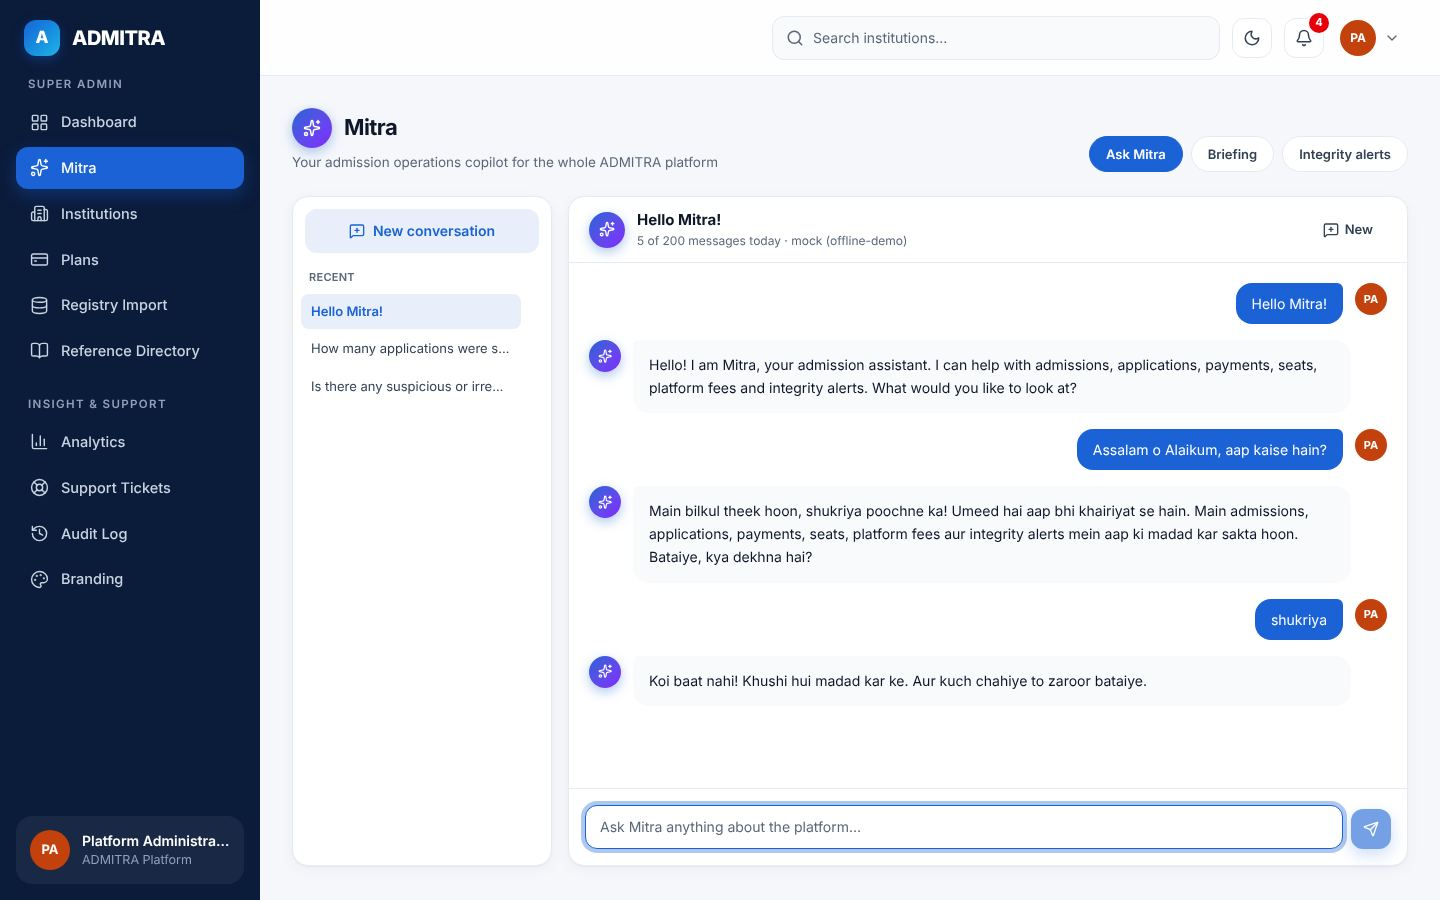
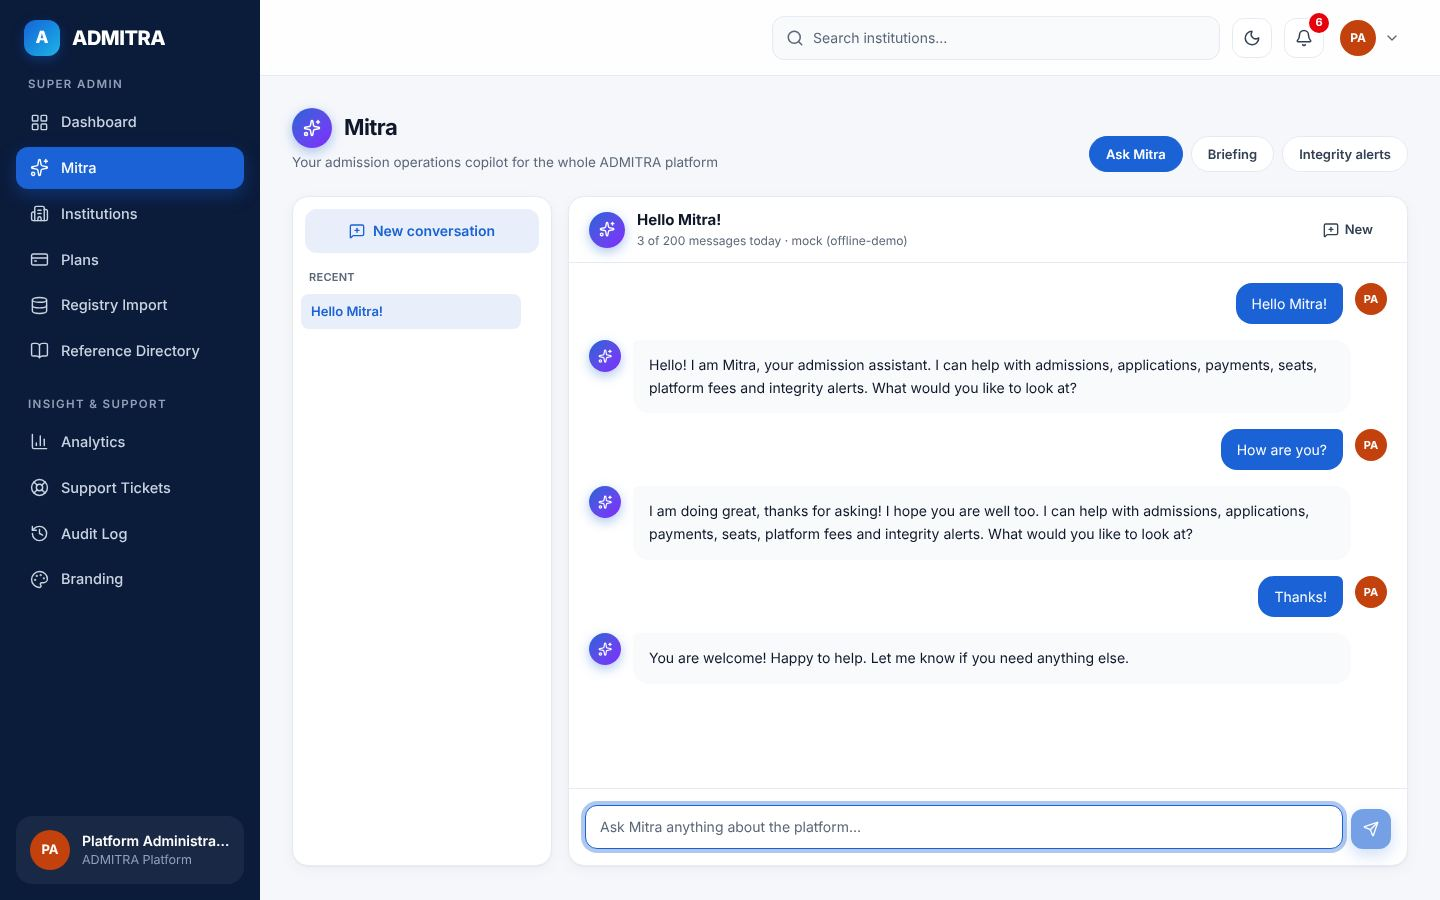
Show English conversations in the Mitra screenshots and use neutral test names

diff --git a/ADMITRA/backend/tests/agent.test.ts b/ADMITRA/backend/tests/agent.test.ts
@@ -382,7 +382,7 @@ describe('offline provider for development (AGENT-1)', () => {
     expect(r.body.data.message.content).toContain('Here is what I found');
   });
 
-  it('answers greetings and small talk warmly without tools, in English or Roman Urdu', async () => {
+  it('answers greetings and small talk warmly without tools', async () => {
     const { MockProvider } = await import('../src/modules/agent/providers/mock.js');
     setProvider(new MockProvider());
     const root = await superAdminToken();
@@ -401,16 +401,16 @@ describe('offline provider for development (AGENT-1)', () => {
     expect(salam.body.data.message.content).toContain('Main bilkul theek hoon');
     const thanks = await ask('shukriya');
     expect(thanks.body.data.message.content).toContain('Koi baat nahi');
-    const roman = await ask('aaj koi suspicious alert hai kya?');
-    expect(roman.body.data.events[0]).toMatchObject({ type: 'tool', name: 'integrity_alerts' });
-    expect(roman.body.data.message.content).toContain('Yeh raha jo mujhe mila');
+    const local = await ask('aaj koi suspicious alert hai kya?');
+    expect(local.body.data.events[0]).toMatchObject({ type: 'tool', name: 'integrity_alerts' });
+    expect(local.body.data.message.content).toContain('Yeh raha jo mujhe mila');
   });
 
-  it('detects Roman Urdu and leaves English alone', async () => {
-    const { isRomanUrdu } = await import('../src/modules/agent/providers/mock.js');
-    expect(isRomanUrdu('aaj kitni applications aayi hain?')).toBe(true);
-    expect(isRomanUrdu('kaise ho')).toBe(true);
-    expect(isRomanUrdu('How many applications arrived today?')).toBe(false);
-    expect(isRomanUrdu('Show pending payments')).toBe(false);
+  it('detects the language of a message', async () => {
+    const { isLocalLanguage } = await import('../src/modules/agent/providers/mock.js');
+    expect(isLocalLanguage('aaj kitni applications aayi hain?')).toBe(true);
+    expect(isLocalLanguage('kaise ho')).toBe(true);
+    expect(isLocalLanguage('How many applications arrived today?')).toBe(false);
+    expect(isLocalLanguage('Show pending payments')).toBe(false);
   });
 });

diff --git a/ADMITRA/backend/src/modules/agent/providers/mock.ts b/ADMITRA/backend/src/modules/agent/providers/mock.ts
@@ -13,11 +13,11 @@ const RULES: [RegExp, string, Record<string, unknown>][] = [
   [/advisor|registry/i, 'advisor_and_registry', {}],
 ];
 
-const ROMAN_URDU =
+const LOCAL_WORDS =
   /\b(kya|kia|kaya|kaise|kaisay|kaisi|aap|ap|hai|hain|hy|mujhe|mera|meri|kitn[ei]|kitna|aaj|kal|batao|bataein|bataiye|dikhao|karo|karein|nahi|nhi|haan|acha|accha|theek|shukriya|salam|assalam|kese|kesy|wala|wali|sab)\b/gi;
 
-export function isRomanUrdu(text: string) {
-  const hits = text.match(ROMAN_URDU)?.length ?? 0;
+export function isLocalLanguage(text: string) {
+  const hits = text.match(LOCAL_WORDS)?.length ?? 0;
   const words = text.trim().split(/\s+/).length;
   return hits >= 2 || (hits === 1 && words <= 3);
 }
@@ -29,7 +29,7 @@ export function smallTalk(text: string, name: string, agent: string): string | n
     .replace(/[!?.,]+/g, ' ')
     .replace(/\s+/g, ' ')
     .trim();
-  const ur = isRomanUrdu(q);
+  const ur = isLocalLanguage(q);
   const hi = name ? ` ${name}` : '';
   const offer = ur
     ? 'Main admissions, applications, payments, seats, platform fees aur integrity alerts mein aap ki madad kar sakta hoon. Bataiye, kya dekhna hai?'
@@ -135,7 +135,7 @@ export class MockProvider implements ChatProvider {
     const userName = /admin/i.test(fullName) ? '' : (fullName.split(' ')[0] ?? '');
     const agent = system.match(/You are ([^,]+), the admission/)?.[1] ?? 'Mitra';
     const lastUser = [...req.messages].reverse().find((m) => m.role === 'user')?.content ?? '';
-    const ur = isRomanUrdu(lastUser);
+    const ur = isLocalLanguage(lastUser);
     if (last.role === 'tool') {
       const results = req.messages
         .slice(req.messages.findLastIndex((m) => m.role === 'assistant'))

diff --git a/README.md b/README.md
@@ -30,7 +30,7 @@ Requirement tags (AUTH, MARK, MERIT, …) refer to the system features of the pr
 | 2. Applicant portal, verified marks and admission operations | Profile, subject-wise academic records, board result registry and matching, trust levels, officer verification panel, fraud flags, documents, application wizard, fee challans and payments, workflow, notifications and e-mail templates | PROF, MARK-1 to MARK-9 and MARK-13, REG, APP, DOC, FEE, FLOW, NOTIF | Complete |
 | 3. Merit, enrollment, Admission Advisor and Result Finder | Merit formulas and merit engine (stable seat allocation), merit lists, offers, enrollment, revocation, reference directory and merit history, Admission Advisor, Result Finder, public merit lists, status lookup | MARK-10 to MARK-12, MERIT, OFFER, DIR, PRED, FIND | Complete |
 | 4. Analytics, support, quality and delivery | Analytics and exports, support tickets, OpenAPI documentation, automated tests (API, browser, accessibility, performance), security hardening, production build, backups | RPT, SUP, non-functional requirements | Complete |
-| 5. Branding and the Mitra admission copilot | Platform and institution branding, profile pictures, contrast-safe colors; Mitra: switchable AI providers (Gemini, OpenAI, Claude), friendly chat in English and Roman Urdu with live-data tools, actions that run only after confirmation, platform fee records, integrity alerts and daily briefings; file storage on the local disk, Amazon S3 or Cloudflare R2 | BRAND, AGENT | Complete |
+| 5. Branding and the Mitra admission copilot | Platform and institution branding, profile pictures, contrast-safe colors; Mitra: switchable AI providers (Gemini, OpenAI, Claude), friendly chat with live-data tools, actions that run only after confirmation, platform fee records, integrity alerts and daily briefings; file storage on the local disk, Amazon S3 or Cloudflare R2 | BRAND, AGENT | Complete |
 
 ### Phase deliverables
 

diff --git a/screenshots/README.md b/screenshots/README.md
@@ -86,7 +86,7 @@ Accounts used: public pages without login; applicant Ayesha Noor (Hamza Ali for 
 | Institution branding | [desktop](desktop/68-settings-branding.jpg) | [mobile](mobile/68-settings-branding.jpg) |
 | Mitra integrity alerts (institution) | [desktop](desktop/67-mitra-alerts.jpg) | [mobile](mobile/67-mitra-alerts.jpg) |
 | Mitra chat with a prepared action (institution) | [desktop](desktop/66-mitra-chat.jpg) | [mobile](mobile/66-mitra-chat.jpg) |
-| Mitra answering in Roman Urdu (institution) | [desktop](desktop/86-mitra-roman-urdu.jpg) | [mobile](mobile/86-mitra-roman-urdu.jpg) |
+| Mitra answering from the institution's data | [desktop](desktop/86-mitra-payments.jpg) | [mobile](mobile/86-mitra-payments.jpg) |
 
 ## Super Admin
 
@@ -107,7 +107,7 @@ Accounts used: public pages without login; applicant Ayesha Noor (Hamza Ali for 
 | Mitra integrity alerts (platform) | [desktop](desktop/82-mitra-alerts.jpg) | [mobile](mobile/82-mitra-alerts.jpg) |
 | Mitra daily briefing (platform) | [desktop](desktop/81-mitra-briefing.jpg) | [mobile](mobile/81-mitra-briefing.jpg) |
 | Mitra chat (platform) | [desktop](desktop/80-mitra-chat.jpg) | [mobile](mobile/80-mitra-chat.jpg) |
-| Mitra greeting and small talk in English and Roman Urdu (platform) | [desktop](desktop/85-mitra-greeting.jpg) | [mobile](mobile/85-mitra-greeting.jpg) |
+| Mitra greeting and small talk (platform) | [desktop](desktop/85-mitra-greeting.jpg) | [mobile](mobile/85-mitra-greeting.jpg) |
 
 ## Dark theme
 
